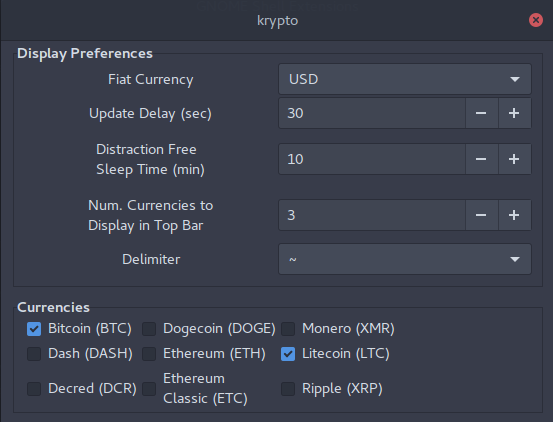
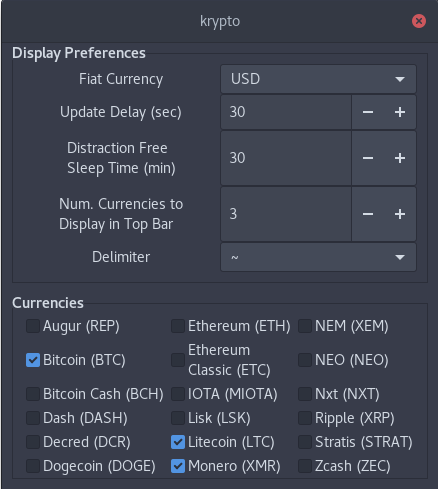
update readme and configuration image

diff --git a/README.md b/README.md
@@ -4,7 +4,7 @@
 
 A cryptocurrency utility for gnome-shell.
 
-Tested on Ubuntu 16.04 (gnome-shell 3.18.5) and Arch Linux (gnome-shell 3.24.3).
+Tested on Ubuntu 16.04 (gnome-shell 3.18.5) and Arch Linux (gnome-shell 3.26.2).
 
 # Installation
 
@@ -24,6 +24,8 @@ $ mv krypto@sereneblue $HOME/.local/share/gnome-shell/extensions/krypto@serenebl
 
 You'll have to manually enable it via Gnome Tweak Tool.
 
+If you're using Wayland, log back in and out.
+
 # Configuration
 
 ![krypto configuration](https://raw.githubusercontent.com/sereneblue/gnome-shell-extension-krypto/master/configuration.png?raw=true)
@@ -31,15 +33,34 @@ You'll have to manually enable it via Gnome Tweak Tool.
 krypto can be configured with the Gnome Tweak Tool.
 
 #### Cryptocurrencies
-There are only 9 supported cryptocurrencies: BTC, DASH, DCR, DOGE, ETH, ETC, LTC, XMR, and XRP. More can be added in the future.
+There are 18 supported cryptocurrencies:
+
+	Augur
+	Bitcoin Cash
+	Bitcoin
+	Dash
+	Decred
+	Dogecoin
+	Ethereum
+	Ethereum Classic
+	IOTA
+	Lisk
+	Litecoin
+	Monero
+	NEM
+	NEO
+	Nxt
+	Ripple
+	Stratis
+	Zcash
 
 #### Fiat Currencies
 There are currently 14 supported fiat currencies. If you'd like a specific currency added, please submit an issue or feel free to submit a merge request.
 
-![krypto distraction free mode](https://raw.githubusercontent.com/sereneblue/gnome-shell-extension-krypto/master/distraction_free_mode.png?raw=true)
-
 #### Distraction Free Mode
 It's probably not healthy to have cryptocurrency prices in front of you 24/7. Distraction Free Mode will prevent krypto from displaying prices for a certain amount of time that you specify. Default value is 10 minutes. Prices will continue to be updated in the background and you still have access to the calculator. ;)
+
+![krypto distraction free mode](https://raw.githubusercontent.com/sereneblue/gnome-shell-extension-krypto/master/distraction_free_mode.png?raw=true)
 
 #### Number of currencies displayed in the Top Bar
 Limit how many currencies are shown in the top bar. Currencies that aren't shown in the Top Bar are displayed in the popup menu.
@@ -49,6 +70,10 @@ Change how frequently you'd like the prices to refresh. Default value is 30 seco
 
 #### Delimiter
 Change the delimiter that separates the currencies in the top bar.
+
+# Update
+
+If you want to update the extension, reinstall the extension following the process above. Your settings will be preserved (excluding any deprecated options).
 
 # Credits
 
